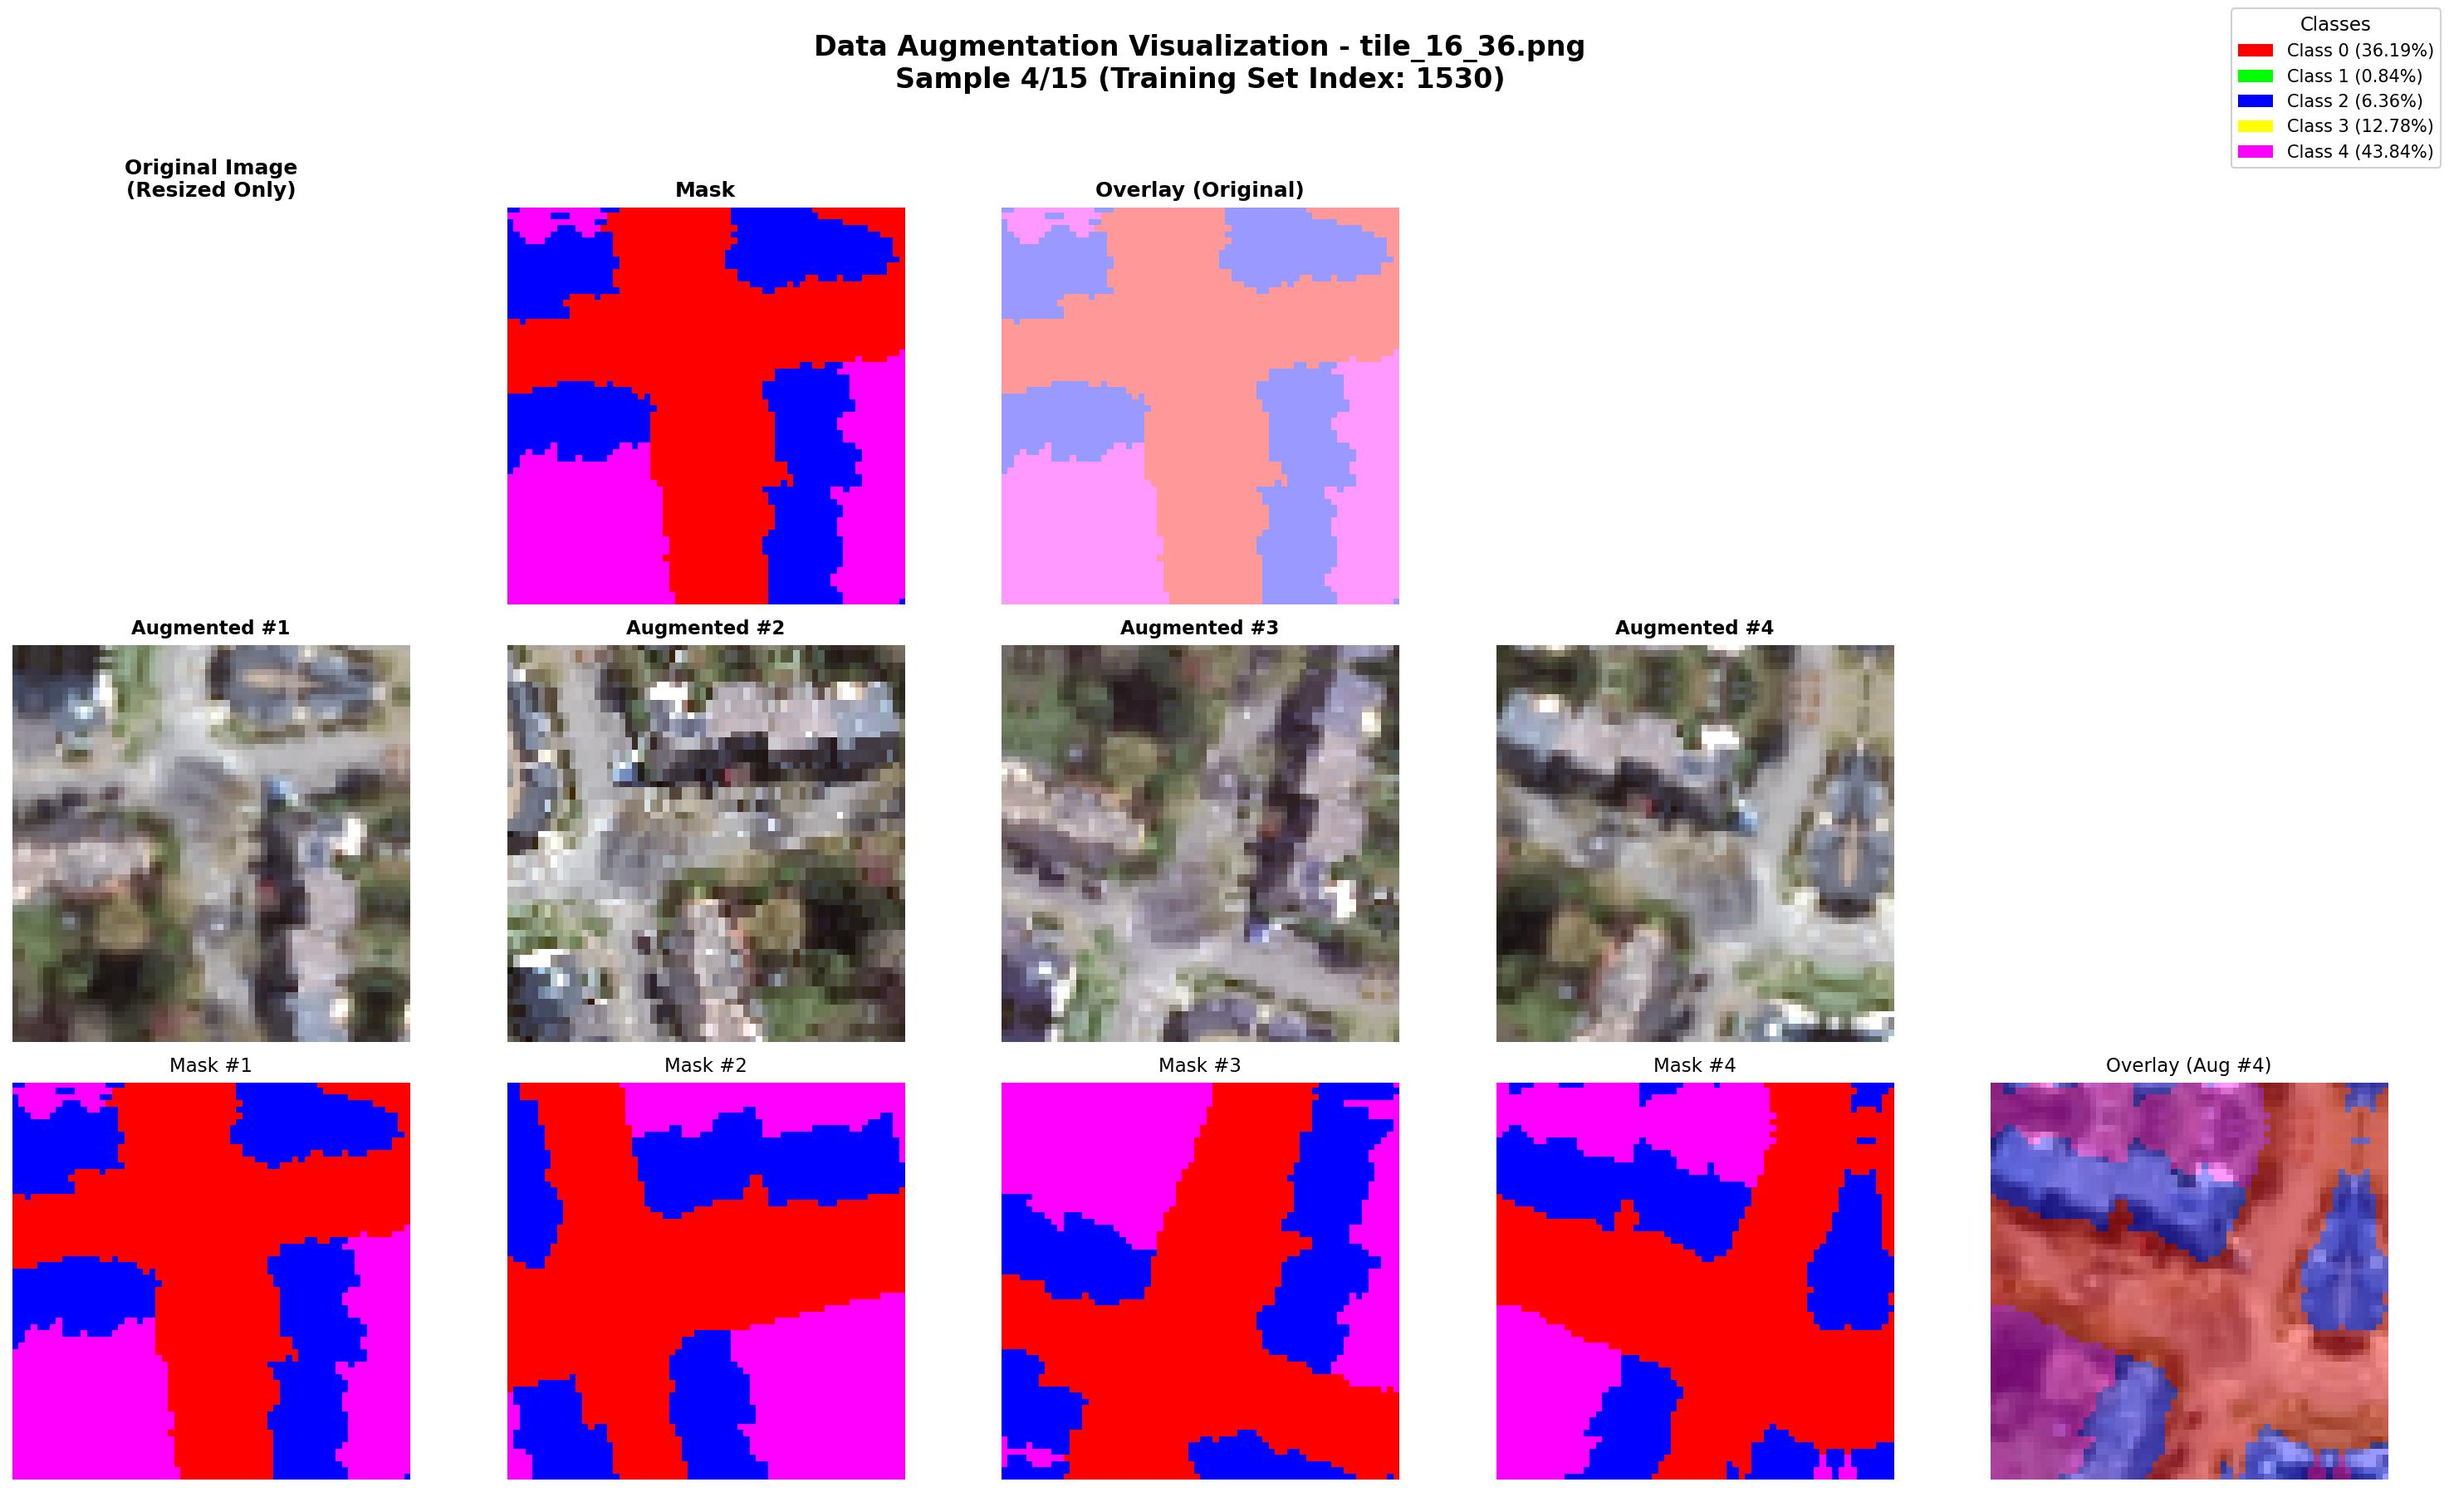
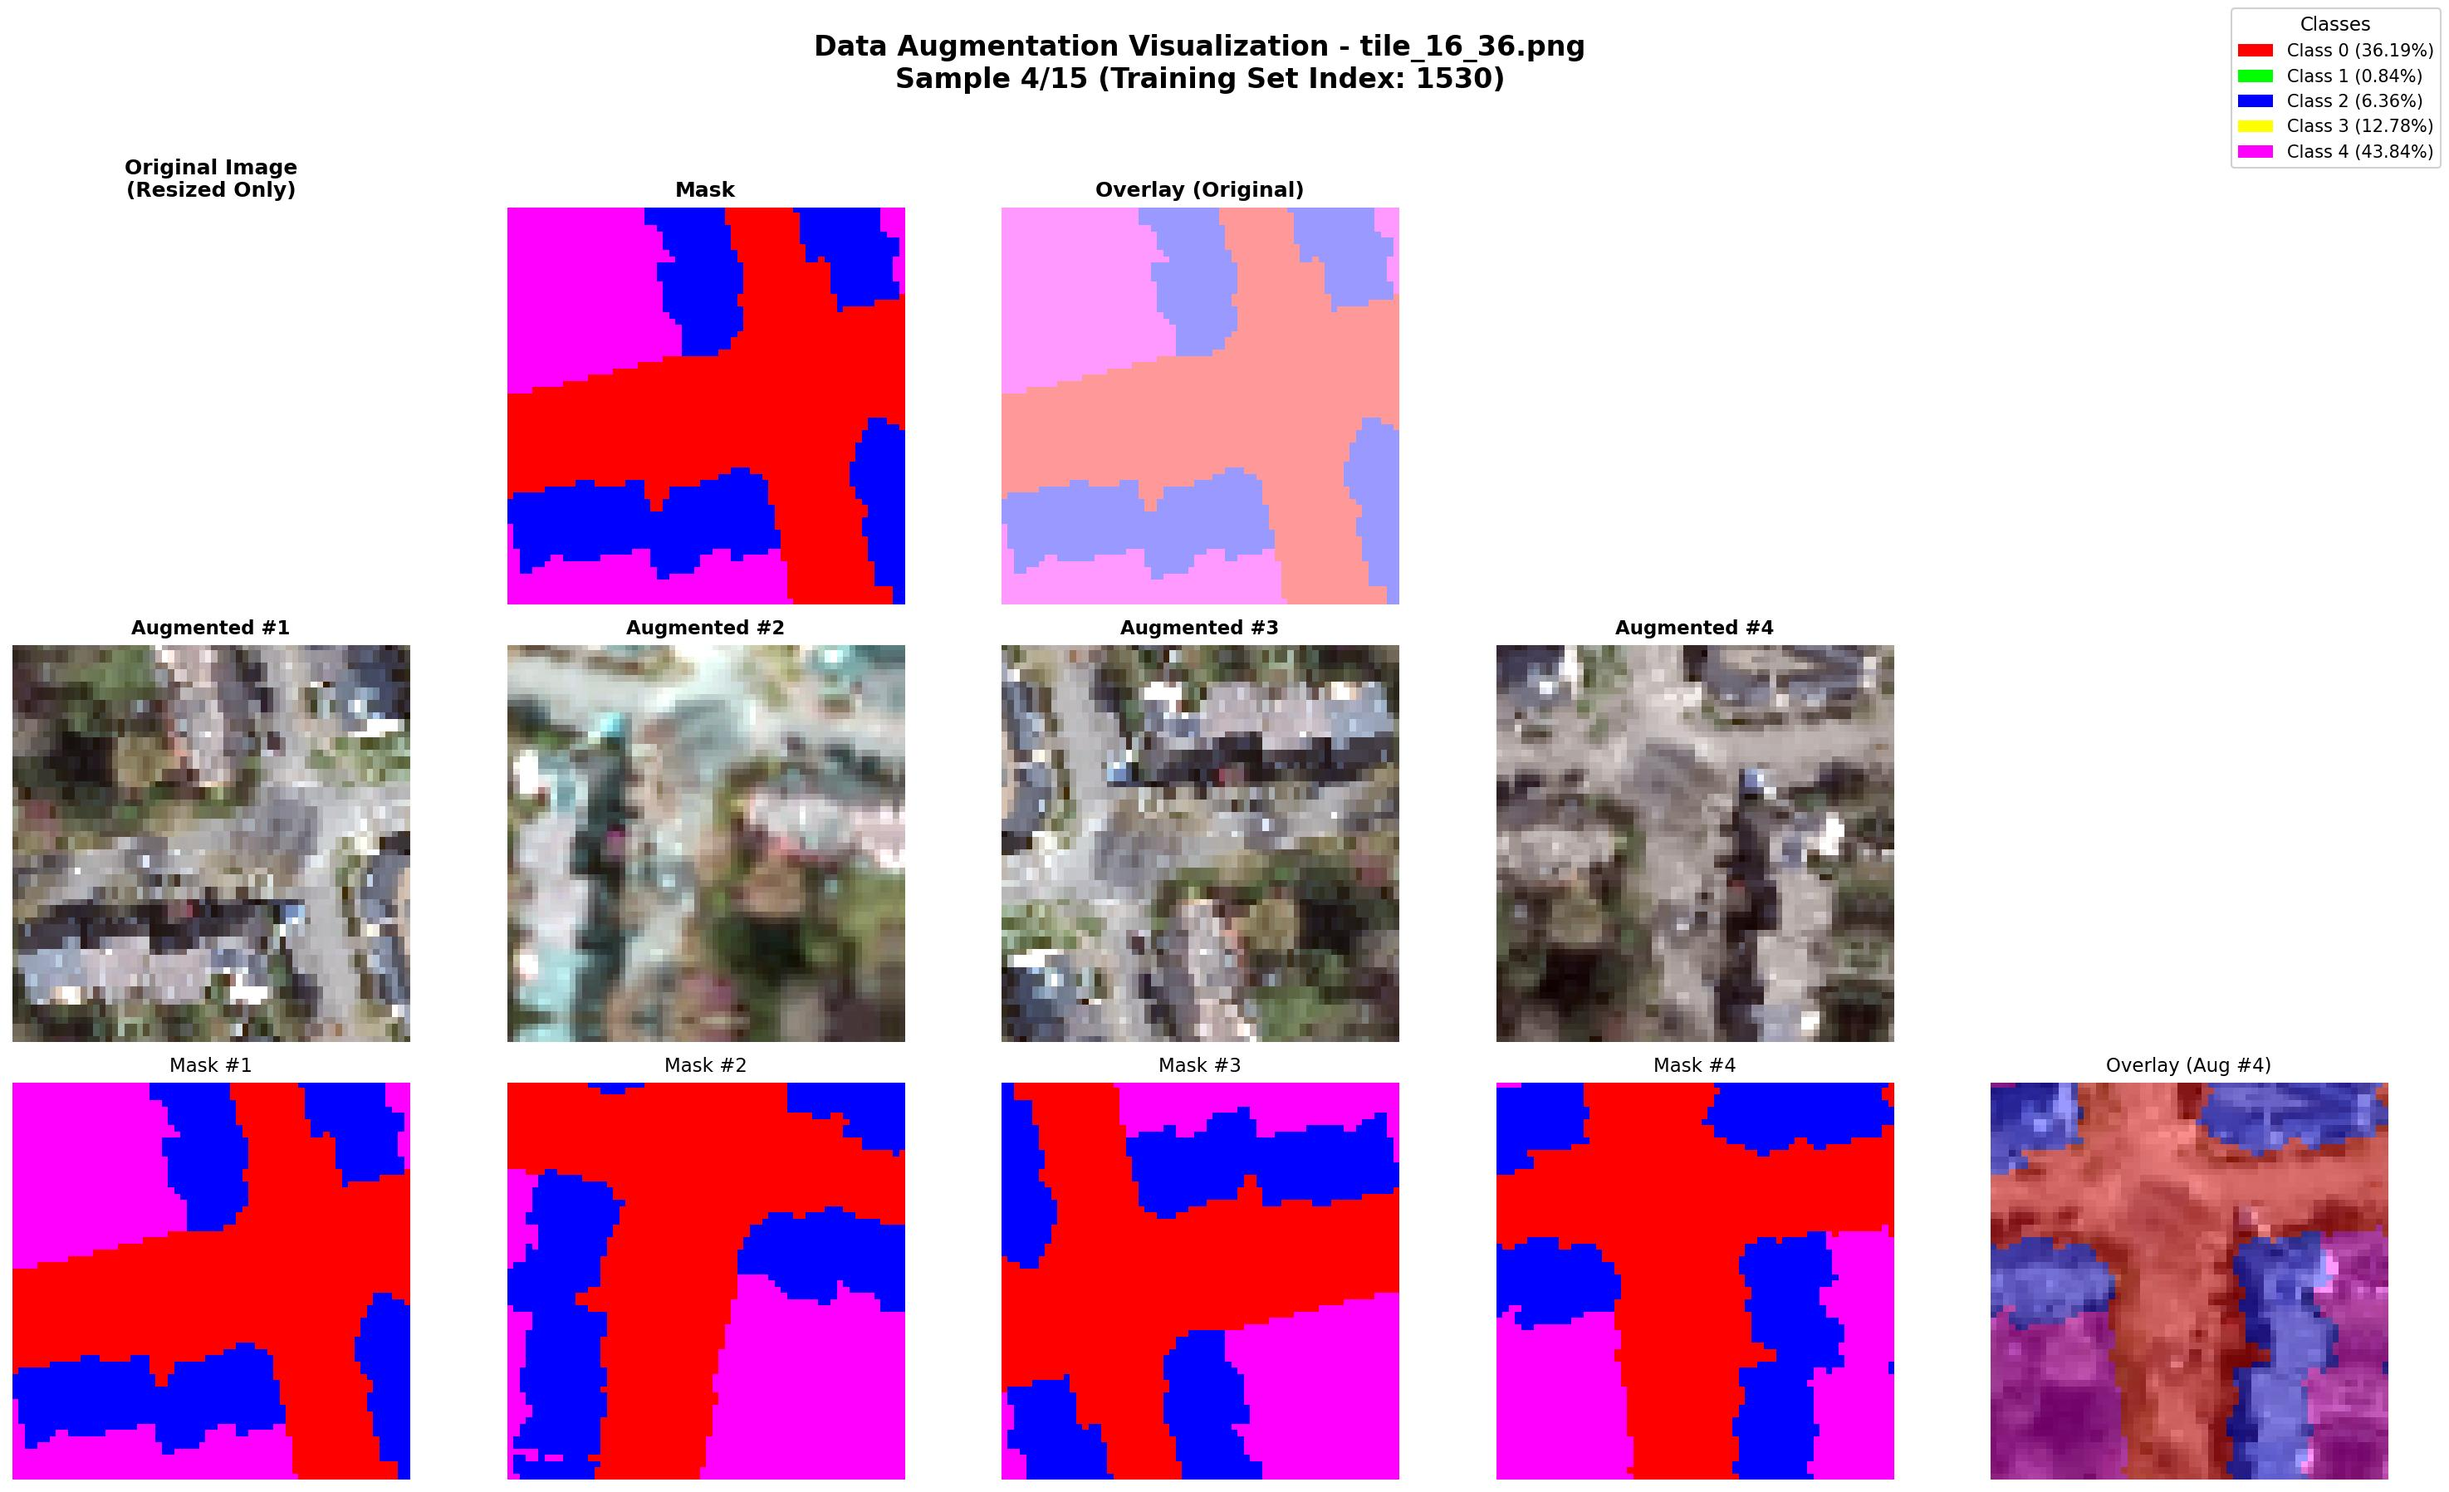
Add WeightDecay with AdamW + LR Scheduler

diff --git a/Dataset/dataLoader.py b/Dataset/dataLoader.py
@@ -85,49 +85,71 @@ class LLNDataset(Dataset):
 def getTransforms_train(use_aug):
     resize_h, resize_w = 64, 64
 
-    # << YOUR DATASET NORMALIZATION VALUES >>
     mean = [0.324276, 0.338223, 0.318705]
     std  = [0.135364, 0.124776, 0.124514]
 
     if not use_aug:
-        # return only resize + normalize
         return alb.Compose([
             alb.Resize(resize_h, resize_w),
             alb.Normalize(mean=mean, std=std),
             alb.pytorch.transforms.ToTensorV2()
         ])
 
-    # FULL AUGMENTATION HARDCODED HERE
+    # FULL AUGMENTATION
     return alb.Compose([
+        # 1. RESIZE FIRST
         alb.Resize(resize_h, resize_w),
-
-        # GEOMETRY
+        
+        # 2. GEOMETRIC AUGMENTATIONS
         alb.HorizontalFlip(p=0.5),
         alb.VerticalFlip(p=0.5),
         alb.RandomRotate90(p=0.5),
-        alb.Rotate(limit=15, border_mode=cv2.BORDER_REFLECT_101, p=0.4),
-        alb.ShiftScaleRotate(
-            shift_limit=0.1, scale_limit=0.1, rotate_limit=10,
-            border_mode=cv2.BORDER_REFLECT_101, p=0.4
+        
+        alb.Rotate(
+            limit=15,
+            border_mode=cv2.BORDER_REFLECT_101,
+            p=0.4
         ),
-
-        # COLOR
-        alb.ColorJitter(brightness=0.2, contrast=0.2,
-                        saturation=0.2, hue=0.1, p=0.5),
-
-        # SHADOW (DISCRETE)
-        alb.RandomShadow(
-            shadow_roi=(0, 0.5, 1, 1),
-            num_shadows_limit=(1, 2),
-            shadow_half_radius=(0.05, 0.15),
-            shadow_dimension=3,
-            p=0.2
+        
+        alb.Affine(
+            shift_limit=0.1,
+            scale_limit=0.1,
+            rotate_limit=10,
+            border_mode=cv2.BORDER_REFLECT_101,
+            p=0.4
         ),
-
-        # BLUR (VERY LIGHT)
-        alb.GaussianBlur(blur_limit=(1, 2), p=0.10),
-
-        # NORMALIZE & TENSOR
+        
+        # 3. COLOR AUGMENTATIONS
+        alb.ColorJitter(
+            brightness=0.2,
+            contrast=0.2,
+            saturation=0.2,
+            hue=0.1,
+            p=0.5
+        ),
+        
+        # 4. BRIGHTNESS/CONTRAST
+        alb.RandomBrightnessContrast(
+            brightness_limit=0.2,
+            contrast_limit=0.2,
+            p=0.3
+        ),
+        
+        # 5. HUE/SATURATION (simulate different weather/seasons)
+        alb.HueSaturationValue(
+            hue_shift_limit=10,
+            sat_shift_limit=20,
+            val_shift_limit=10,
+            p=0.3
+        ),
+        
+        # 6. BLUR (atmospheric effects)
+        alb.GaussianBlur(
+            blur_limit=(3, 5),
+            p=0.15
+        ),
+        
+        # 8. NORMALIZE & CONVERT TO TENSOR
         alb.Normalize(mean=mean, std=std),
         alb.pytorch.transforms.ToTensorV2(),
     ])
@@ -136,8 +158,6 @@ def getTransforms_train(use_aug):
 def getTransforms_val_test():
     resize_h, resize_w = 64, 64
 
-    # DEFAULT NORMALIZATION FOR VAL/TEST
-    # use your aerial dataset stats
     mean = [0.324276, 0.338223, 0.318705]
     std  = [0.135364, 0.124776, 0.124514]
 

diff --git a/Dataset/makeGraph.py b/Dataset/makeGraph.py
@@ -30,7 +30,7 @@ def showDataset(dataset, param):
 
     indices = random.sample(range(len(dataset)), numPairs)
 
-    fig, axes = plt.subplots(rows, cols*2, figsize=(6,6), dpi=150)
+    _, axes = plt.subplots(rows, cols*2, figsize=(6,6), dpi=150)
 
     cmap = mcolors.ListedColormap([
         "black",   # 0 = "other"
@@ -46,7 +46,7 @@ def showDataset(dataset, param):
         axes = axes.reshape(-1, 2)
 
     for i, idx in enumerate(indices):
-        image, mask, tileName, resizedImg = dataset[idx]
+        _, mask, tileName, resizedImg = dataset[idx]
 
         row = i // cols
         col = i % cols
@@ -131,10 +131,3 @@ def reconstruct_from_tiles(allResizedImgs, allMasksPreds, allMasks, allTileNames
     plt.imsave(os.path.join(savePath, "prediction.png"), fullPred, cmap=cmap)
     plt.imsave(os.path.join(savePath, "mask.png"), fullMask, cmap=cmap) 
     plt.imsave(os.path.join(savePath, "overlay.png"), overlay)
-
-
-
-
-
-    
-    
